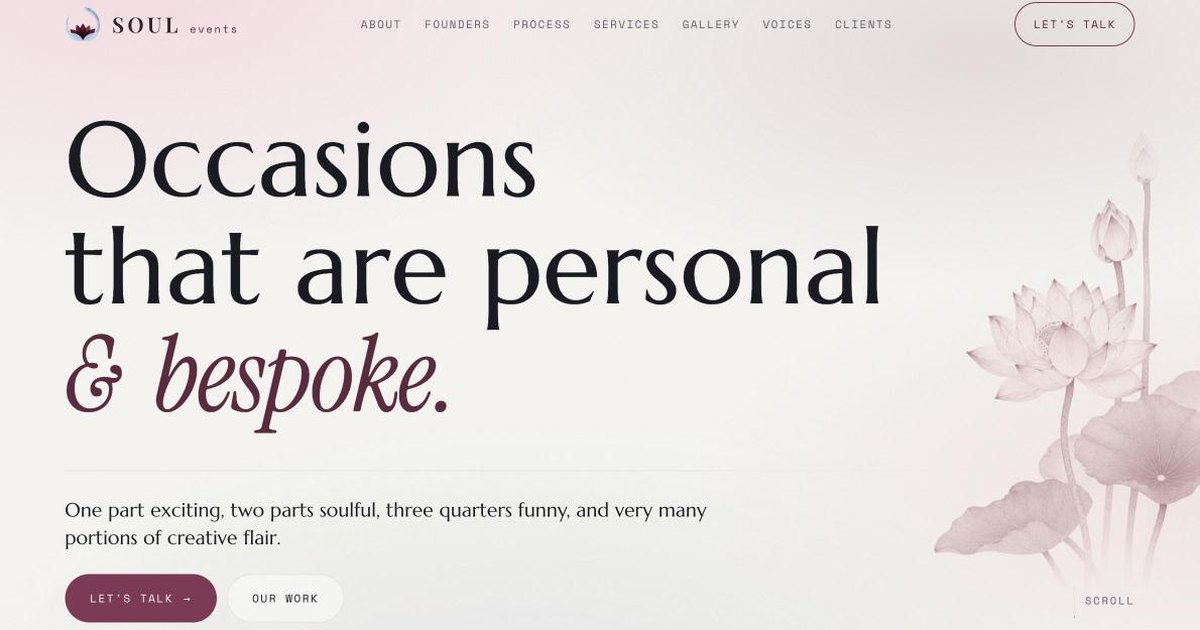
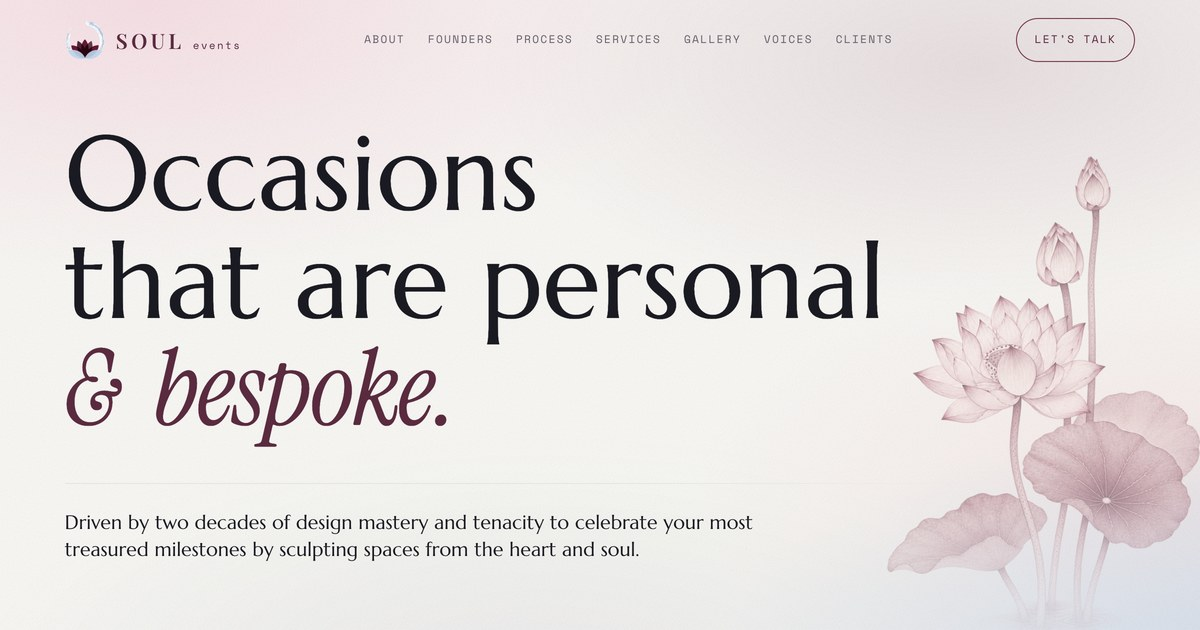
Refresh the link preview: new share image and copy
The share card is recaptured from the current hero (new lotus, logo and
hero line), and the page title, description, Open Graph and Twitter text
follow the client's new hero copy. The image URL carries a version so
WhatsApp, iMessage and Slack fetch the new card.

diff --git a/index.html b/index.html
@@ -3,25 +3,25 @@
 <head>
 <meta charset="utf-8">
 <meta name="viewport" content="width=device-width, initial-scale=1">
-<title>Soul Events</title>
-<meta name="description" content="Soul Events, bespoke event decor by Chelna Lekhi and Ramesh Sadhwani. Weddings, receptions, haldi, mehendi, brunches, birthdays and anniversaries in Bangalore, across India and internationally. 450+ events, 47 years of collective experience.">
+<title>Soul Events | Bespoke Event Decor in Bangalore</title>
+<meta name="description" content="Bespoke event decor in Bangalore by Chelna Lekhi and Ramesh Sadhwani. Two decades of weddings, receptions, haldi and mehendi, birthdays, baby showers and corporate events, sculpted from the heart and soul.">
 <meta name="theme-color" content="#F8F7F4">
 <meta property="og:type" content="website">
 <meta property="og:site_name" content="Soul Events">
-<meta property="og:title" content="Soul Events, Bespoke Event Decor in Bangalore">
-<meta property="og:description" content="SOUL is not a company – that would mean we look at what we do as simply a job. SOUL is our passion. Bespoke event decor in Bangalore and internationally.">
+<meta property="og:title" content="Soul Events | Bespoke Event Decor in Bangalore">
+<meta property="og:description" content="Two decades of design mastery and tenacity, celebrating your most treasured milestones by sculpting spaces from the heart and soul.">
 <meta property="og:locale" content="en_IN">
 <meta property="og:url" content="https://souleventsindia.com/">
-<meta property="og:image" content="https://souleventsindia.com/assets/brand/og-image.jpg">
+<meta property="og:image" content="https://souleventsindia.com/assets/brand/og-image.jpg?v=2">
 <meta property="og:image:width" content="1200">
 <meta property="og:image:height" content="630">
 <meta property="og:image:type" content="image/jpeg">
-<meta property="og:image:alt" content="Soul Events: Occasions that are personal and bespoke.">
+<meta property="og:image:alt" content="Soul Events: Occasions that are personal and bespoke, beside a hand-drawn lotus.">
 <meta name="twitter:card" content="summary_large_image">
-<meta name="twitter:title" content="Soul Events, Bespoke Event Decor in Bangalore">
-<meta name="twitter:description" content="Occasions that are personal and bespoke. Event decor by Chelna Lekhi and Ramesh Sadhwani, Bangalore.">
-<meta name="twitter:image" content="https://souleventsindia.com/assets/brand/og-image.jpg">
-<meta name="twitter:image:alt" content="Soul Events: Occasions that are personal and bespoke.">
+<meta name="twitter:title" content="Soul Events | Bespoke Event Decor in Bangalore">
+<meta name="twitter:description" content="Two decades of design mastery and tenacity, celebrating your most treasured milestones by sculpting spaces from the heart and soul.">
+<meta name="twitter:image" content="https://souleventsindia.com/assets/brand/og-image.jpg?v=2">
+<meta name="twitter:image:alt" content="Soul Events: Occasions that are personal and bespoke, beside a hand-drawn lotus.">
 <link rel="canonical" href="https://souleventsindia.com/">
 <link rel="preconnect" href="https://fonts.googleapis.com">
 <link rel="preconnect" href="https://fonts.gstatic.com" crossorigin>
